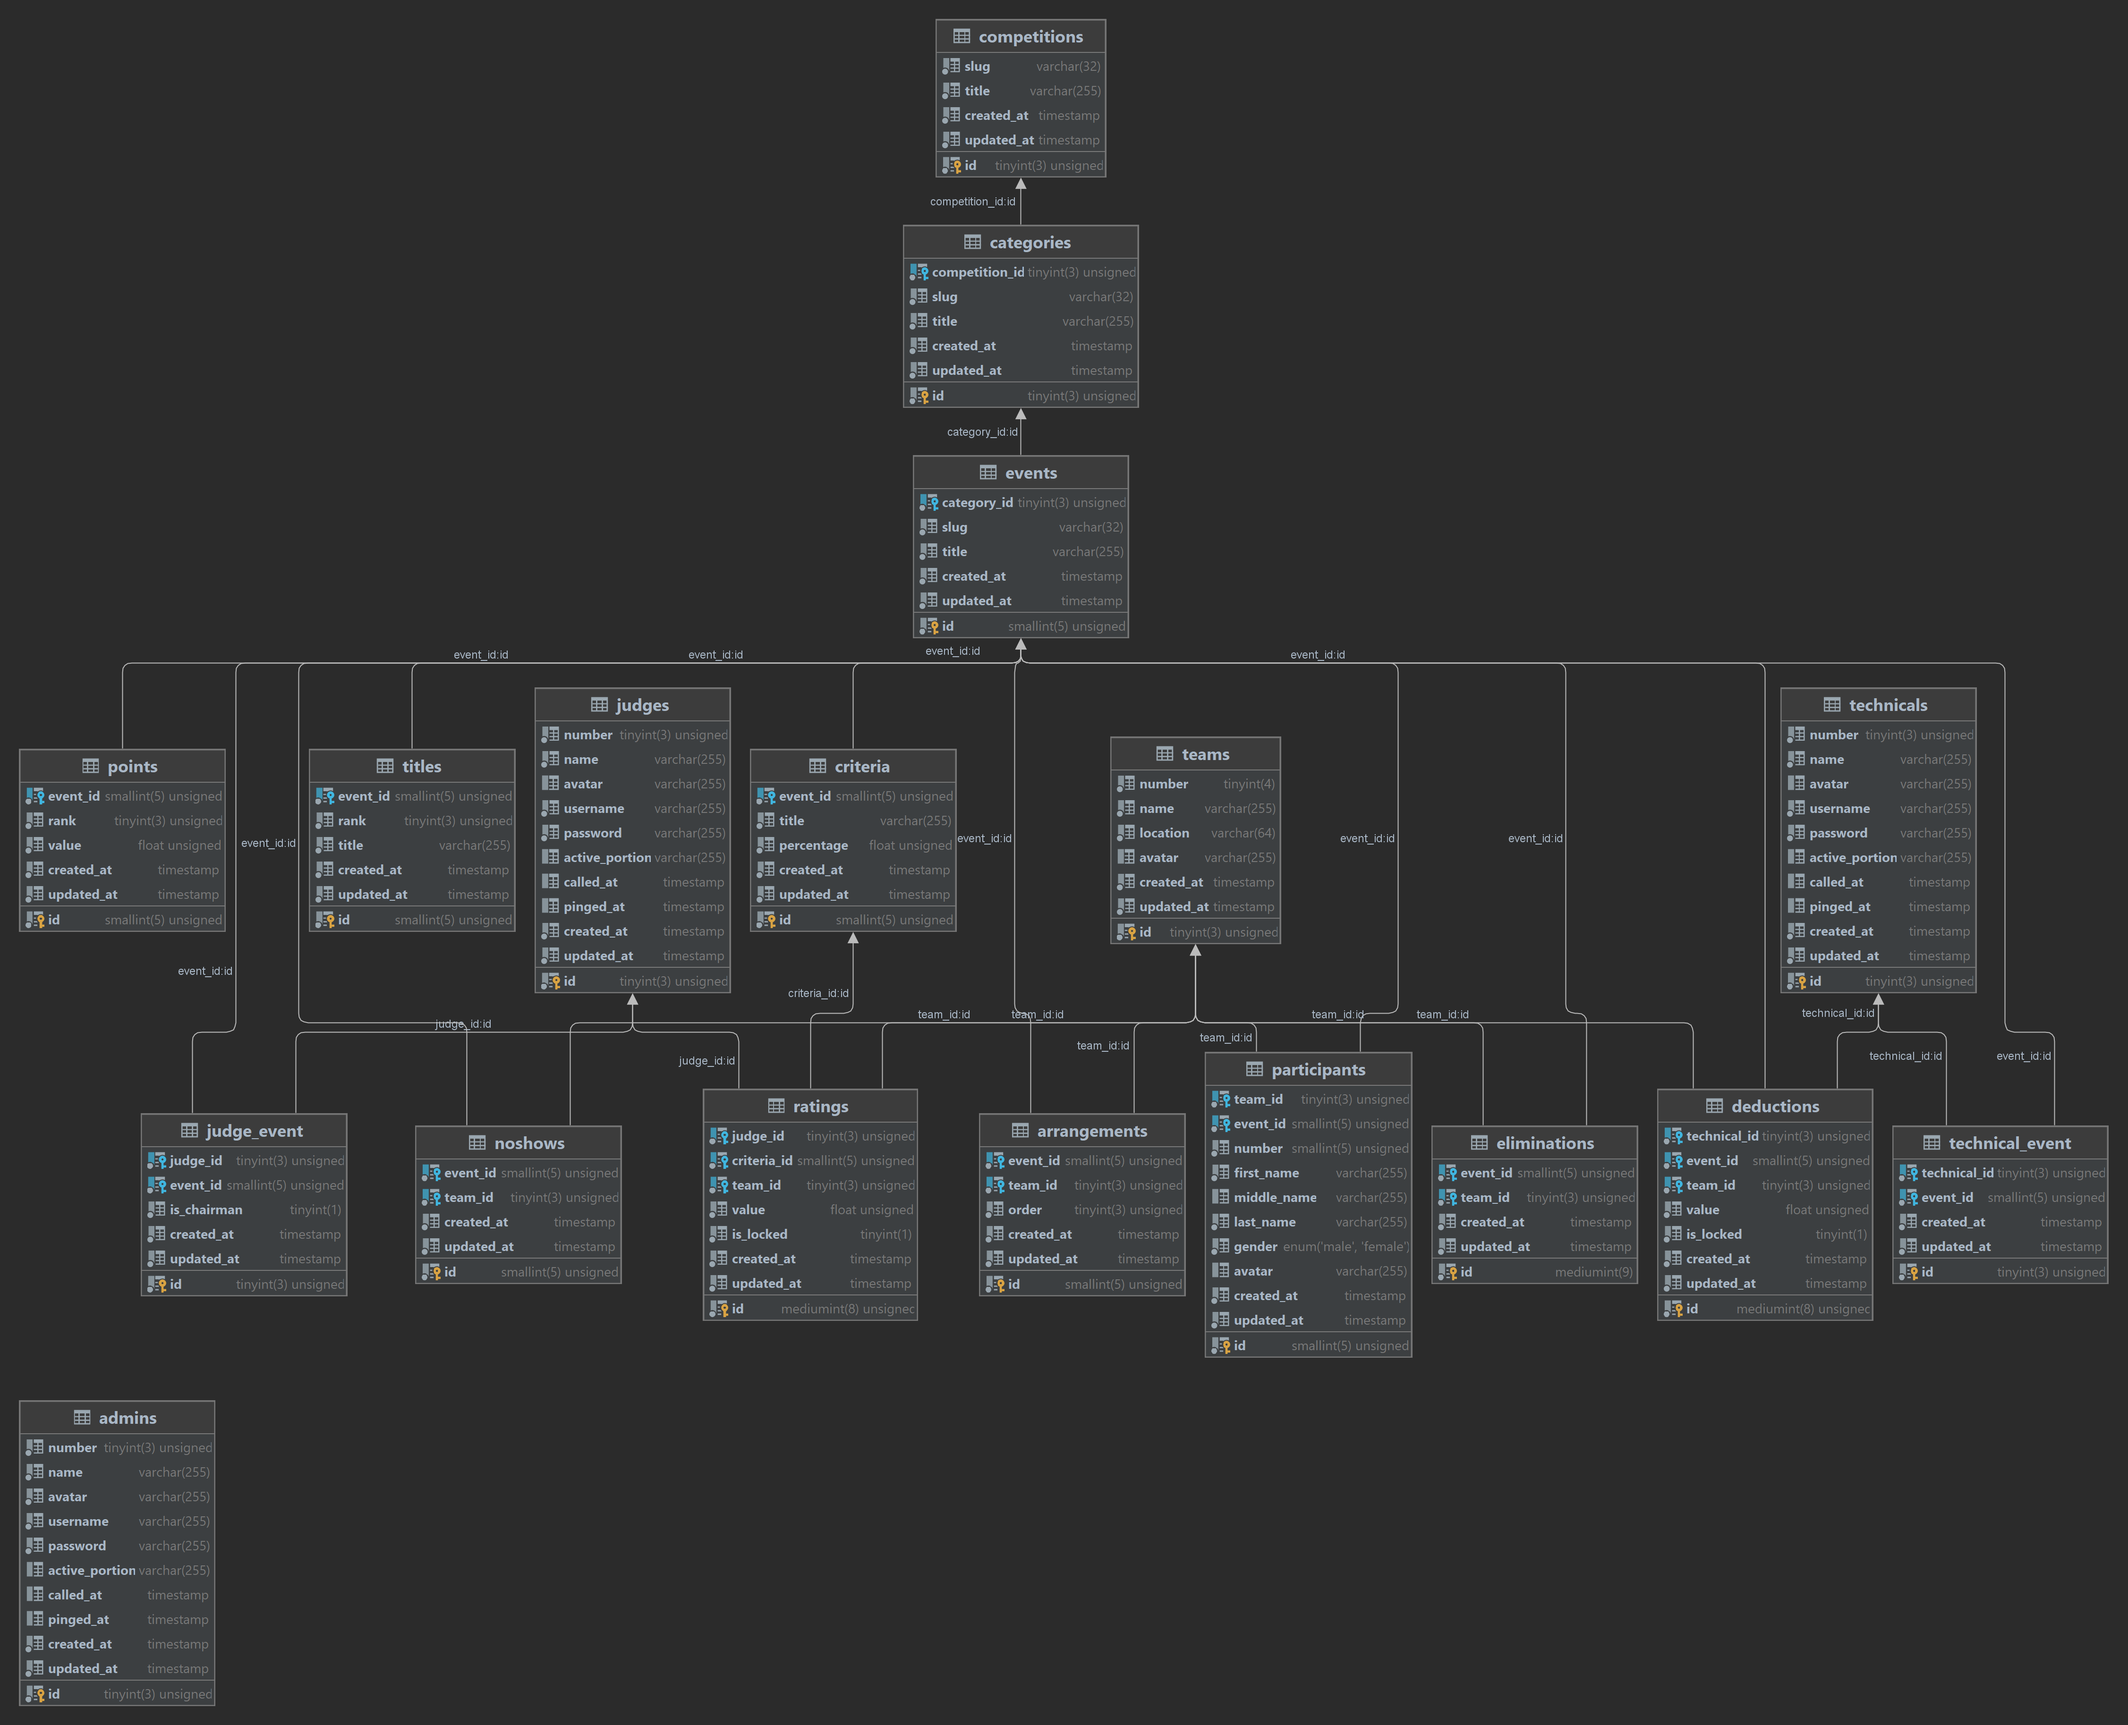
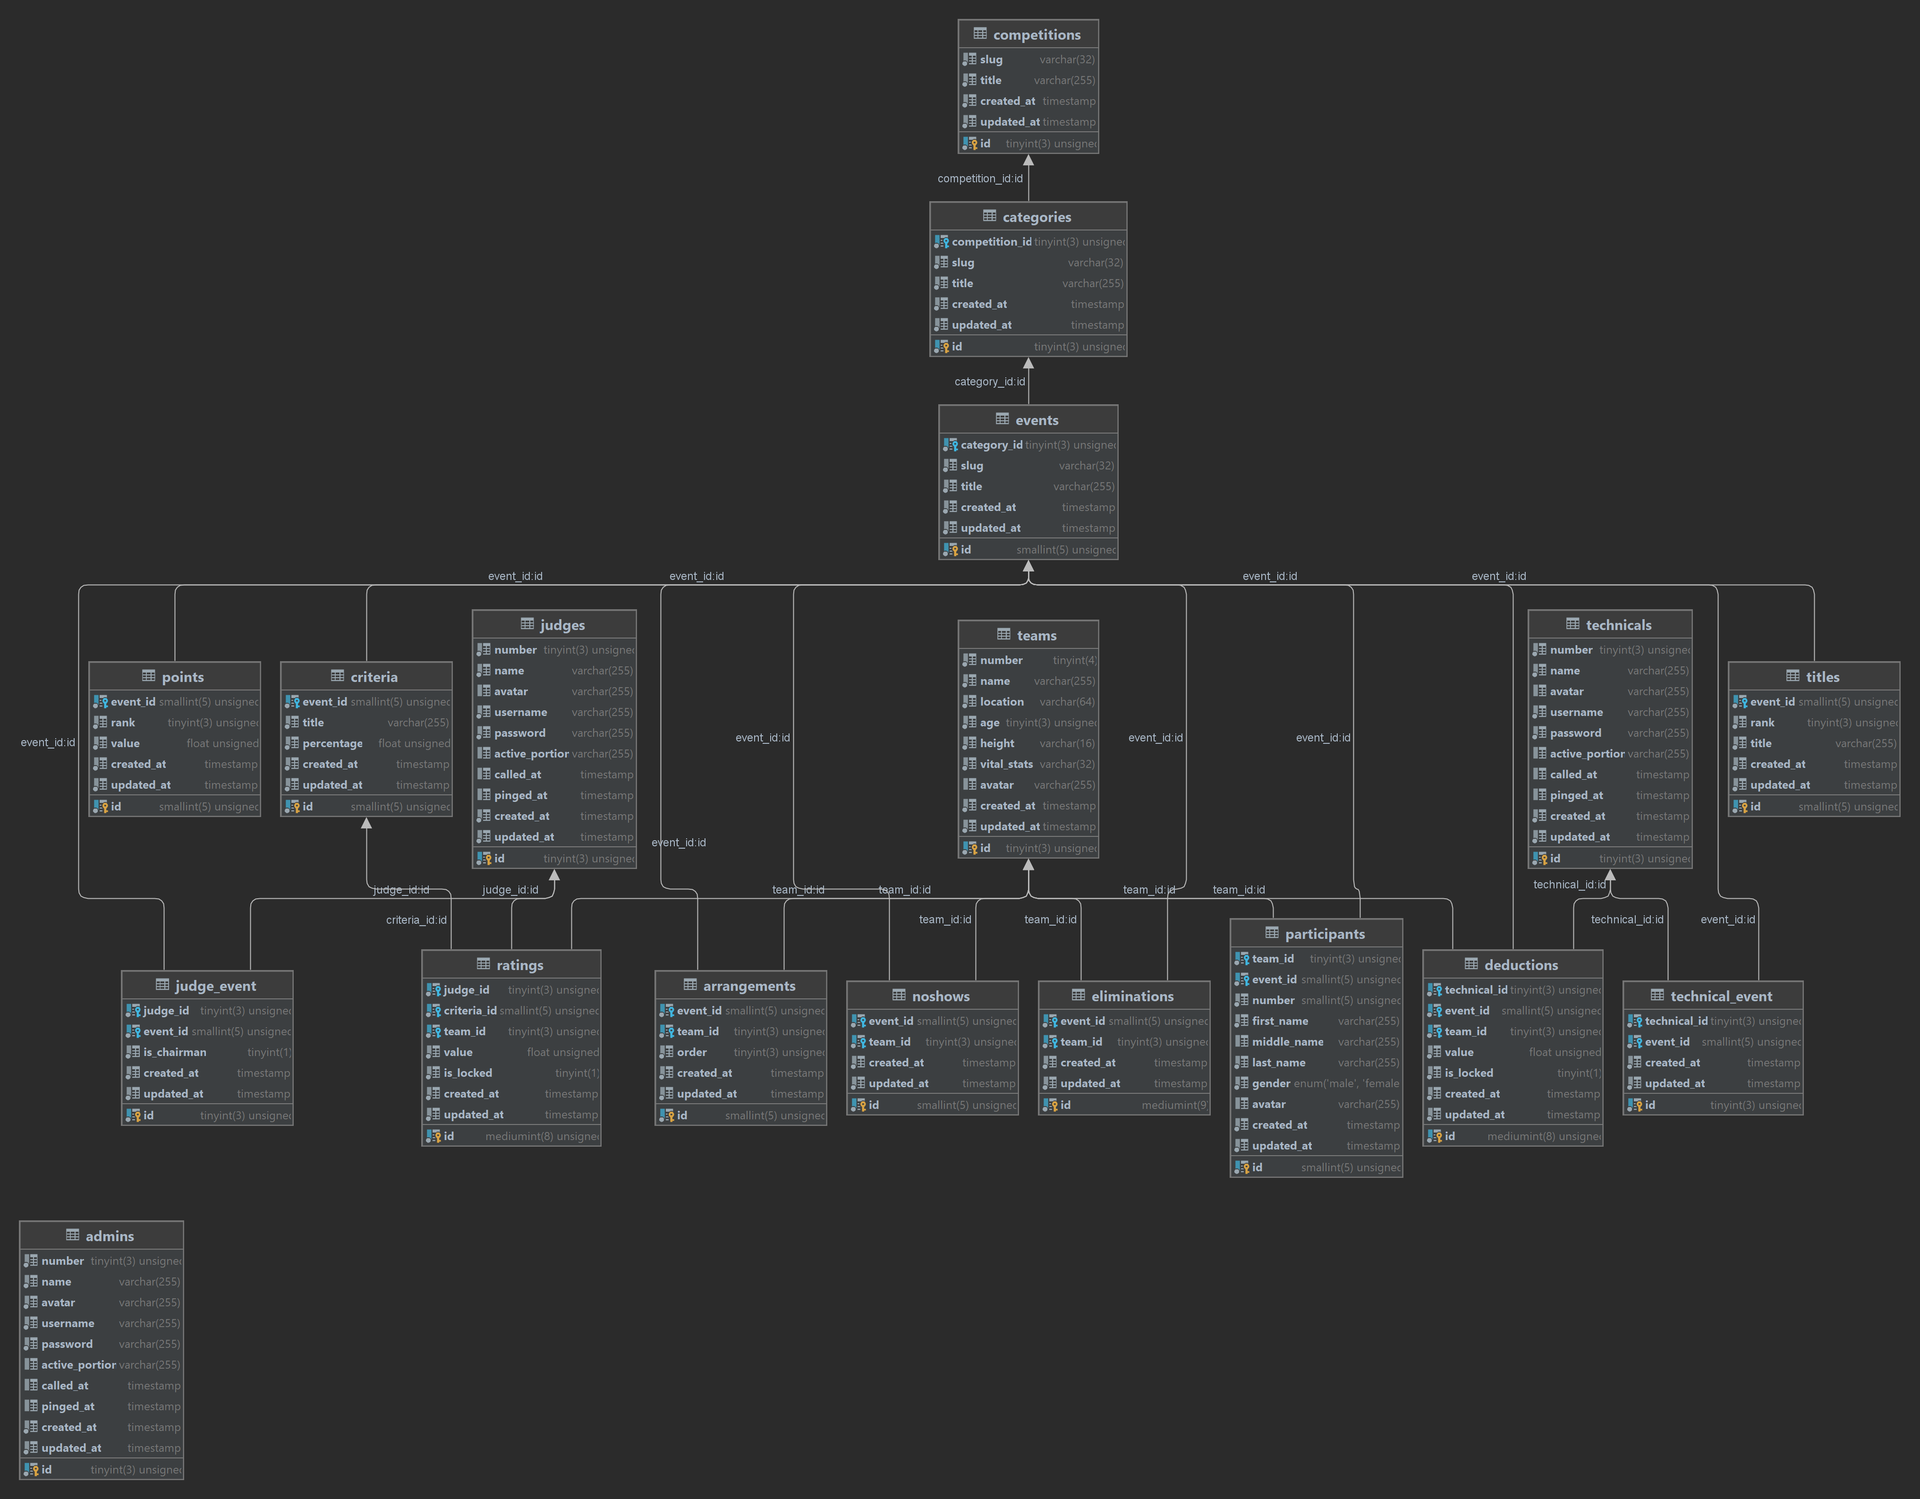
Add age, height, and vital_stats to Team (Candidate) model.

diff --git a/src/views/Admin.vue b/src/views/Admin.vue
@@ -152,8 +152,9 @@
                             </v-avatar>
                         </td>
                         <td :class="{ 'bg-yellow-lighten-3': allSubmitted && team.title !== '' }">
-                            <p class="ma-0 text-subtitle-2 text-uppercase font-weight-bold" style="line-height: 1.2">{{ team.name }}</p>
-                            <p class="mt-1 mb-0" style="line-height: 1"><small>{{ team.location }}</small></p>
+                            <p class="mt-0 me-0 mb-1 ms-0 text-subtitle-2 text-uppercase font-weight-bold" style="line-height: 1.2">{{ team.name }}</p>
+                            <p class="mb-0" v-if="team.location.trim() !== ''" style="line-height: 1; opacity: 0.8"><small><b>{{ team.location }}</b></small></p>
+                            <p class="mb-0" v-if="team.meta.trim() !== ''" style="line-height: 1; opacity: 0.85"><small>{{ team.meta }}</small></p>
                         </td>
                         <td
                             v-for="(technical, technicalKey, technicalIndex) in technicals"
@@ -335,8 +336,9 @@
                                             class="pa-3"
                                             style="border-bottom: 1px solid #ddd; border-right: 1px solid #ddd;"
                                         >
-                                            <p class="ma-0 text-h6 text-uppercase font-weight-bold" style="line-height: 1.2">{{ teams[winner[0]].name }}</p>
-                                            <p class="mt-1 text-body-1 mb-0" style="line-height: 1"><small>{{ teams[winner[0]].location }}</small></p>
+                                            <p class="mt-0 me-0 mb-1 ms-0 text-h6 text-uppercase font-weight-bold" style="line-height: 1.3">{{ teams[winner[0]].name }}</p>
+                                            <p class="mb-0" v-if="teams[winner[0]].location.trim() !== ''" style="line-height: 1.1; opacity: 0.8"><span><b>{{ teams[winner[0]].location }}</b></span></p>
+                                            <p class="mb-0" v-if="teams[winner[0]].meta.trim() !== ''" style="line-height: 1.1; opacity: 0.85"><span>{{ teams[winner[0]].meta }}</span></p>
                                         </td>
                                     </tr>
                                 </template>

diff --git a/src/views/Judge.vue b/src/views/Judge.vue
@@ -90,8 +90,9 @@
                         class="px-0 text-grey-darken-2"
                         :class="{ 'text-grey-darken-4': coordinates.y == teamIndex && !scoreSheetDisabled }"
                     >
-                        <p class="ma-0 text-subtitle-2 text-uppercase font-weight-bold" style="line-height: 1.2">{{ team.name }}</p>
-                        <p class="mt-1 mb-0" style="line-height: 1"><small>{{ team.location }}</small></p>
+                        <p class="mt-0 me-0 mb-1 ms-0 text-subtitle-2 text-uppercase font-weight-bold" style="line-height: 1.2">{{ team.name }}</p>
+                        <p class="mb-0" v-if="team.location.trim() !== ''" style="line-height: 1; opacity: 0.8"><small><b>{{ team.location }}</b></small></p>
+                        <p class="mb-0" v-if="team.meta.trim() !== ''" style="line-height: 1; opacity: 0.85"><small>{{ team.meta }}</small></p>
                     </td>
 					<td
 						v-for="(criterion, criterionIndex) in criteria"

diff --git a/src/views/Technical.vue b/src/views/Technical.vue
@@ -56,8 +56,9 @@
                         class="px-0 text-grey-darken-2"
                         :class="{ 'text-grey-darken-4': coordinates.y == teamIndex && !scoreSheetDisabled }"
                     >
-                        <p class="ma-0 text-subtitle-2 text-uppercase font-weight-bold" style="line-height: 1.2">{{ team.name }}</p>
-                        <p class="mt-1 mb-0" style="line-height: 1"><small>{{ team.location }}</small></p>
+                        <p class="mt-0 me-0 mb-1 ms-0 text-subtitle-2 text-uppercase font-weight-bold" style="line-height: 1.2">{{ team.name }}</p>
+                        <p class="mb-0" v-if="team.location.trim() !== ''" style="line-height: 1; opacity: 0.8"><small><b>{{ team.location }}</b></small></p>
+                        <p class="mb-0" v-if="team.meta.trim() !== ''" style="line-height: 1; opacity: 0.85"><small>{{ team.meta }}</small></p>
                     </td>
                     <td>
                         <v-text-field

diff --git a/app/models/Team.php b/app/models/Team.php
@@ -12,6 +12,10 @@ class Team extends App
     protected $number = 0;
     protected $name;
     protected $location;
+    protected $age = 0;
+    protected $height = '';
+    protected $vital_stats = '';
+    protected $meta = '';
     protected $avatar = 'candidate.png';
     protected $disabled = false;
 
@@ -33,11 +37,15 @@ class Team extends App
             $result = $stmt->get_result();
             if($result->num_rows > 0) {
                 $row = $result->fetch_assoc();
-                $this->id = $row['id'];
-                $this->number = $row['number'];
-                $this->name = $row['name'];
-                $this->location = $row['location'];
-                $this->avatar = $row['avatar'];
+                $this->id          = $row['id'];
+                $this->number      = $row['number'];
+                $this->name        = $row['name'];
+                $this->location    = $row['location'];
+                $this->age         = intval($row['age']);
+                $this->height      = $row['height'];
+                $this->vital_stats = $row['vital_stats'];
+                $this->avatar      = $row['avatar'];
+                $this->meta        = $this->parseMetaData();
             }
         }
     }
@@ -83,12 +91,16 @@ class Team extends App
     public function toArray()
     {
         return [
-            'id'       => $this->id,
-            'number'   => $this->number,
-            'name'     => $this->name,
-            'location' => $this->location,
-            'avatar'   => $this->avatar,
-            'disabled' => $this->disabled
+            'id'          => $this->id,
+            'number'      => $this->number,
+            'name'        => $this->name,
+            'location'    => $this->location,
+            'age'         => $this->age,
+            'height'      => $this->height,
+            'vital_stats' => $this->vital_stats,
+            'meta'        => $this->meta,
+            'avatar'      => $this->avatar,
+            'disabled'    => $this->disabled
         ];
     }
 
@@ -132,7 +144,7 @@ class Team extends App
         if(sizeof($eliminated_team_ids) > 0) {
             $sql .= "WHERE id NOT IN (" . implode(', ', $eliminated_team_ids) . ") ";
         }
-        $sql .= "ORDER BY id, number";
+        $sql .= "ORDER BY number, id";
         $stmt = $team->conn->prepare($sql);
         $stmt->execute();
         $result = $stmt->get_result();
@@ -241,8 +253,8 @@ class Team extends App
             App::returnError('HTTP/1.1 409', 'Insert Error: team [id = ' . $this->id . '] already exists.');
 
         // proceed with insert
-        $stmt = $this->conn->prepare("INSERT INTO $this->table(number, name, location, avatar) VALUES(?, ?, ?, ?)");
-        $stmt->bind_param("isss", $this->number, $this->name, $this->location, $this->avatar);
+        $stmt = $this->conn->prepare("INSERT INTO $this->table(number, name, location, age, height, vital_stats, avatar) VALUES(?, ?, ?, ?, ?, ?, ?)");
+        $stmt->bind_param("ississs", $this->number, $this->name, $this->location, $this->age, $this->height, $this->vital_stats, $this->avatar);
         $stmt->execute();
         $this->id = $this->conn->insert_id;
     }
@@ -260,8 +272,8 @@ class Team extends App
             App::returnError('HTTP/1.1 404', 'Update Error: team [id = ' . $this->id . '] does not exist.');
 
         // proceed with update
-        $stmt = $this->conn->prepare("UPDATE $this->table SET number = ?, name = ?, location = ?, avatar = ? WHERE id = ?");
-        $stmt->bind_param("isssi", $this->number, $this->name, $this->location, $this->avatar, $this->id);
+        $stmt = $this->conn->prepare("UPDATE $this->table SET number = ?, name = ?, location = ?, age = ?, height = ?, vital_stats = ?, avatar = ? WHERE id = ?");
+        $stmt->bind_param("ississsi", $this->number, $this->name, $this->location, $this->age, $this->height, $this->vital_stats, $this->avatar, $this->id);
         $stmt->execute();
     }
 
@@ -321,6 +333,42 @@ class Team extends App
 
 
     /***************************************************************************
+     * Set age
+     *
+     * @param int $age
+     * @return void
+     */
+    public function setAge($age)
+    {
+        $this->age = $age;
+    }
+
+
+    /***************************************************************************
+     * Set height
+     *
+     * @param string $height
+     * @return void
+     */
+    public function setHeight($height)
+    {
+        $this->height = $height;
+    }
+
+
+    /***************************************************************************
+     * Set vital stats
+     *
+     * @param string $vital_stats
+     * @return void
+     */
+    public function setVitalStats($vital_stats)
+    {
+        $this->vital_stats = $vital_stats;
+    }
+
+
+    /***************************************************************************
      * Set avatar
      *
      * @param string $avatar
@@ -373,6 +421,39 @@ class Team extends App
     public function getLocation()
     {
         return $this->location;
+    }
+
+
+    /***************************************************************************
+     * Get age
+     *
+     * @return int
+     */
+    public function getAge()
+    {
+        return $this->age;
+    }
+
+
+    /***************************************************************************
+     * Get height
+     *
+     * @return string
+     */
+    public function getHeight()
+    {
+        return $this->height;
+    }
+
+
+    /***************************************************************************
+     * Get vital stats
+     *
+     * @return string
+     */
+    public function getVitalStats()
+    {
+        return $this->vital_stats;
     }
 
 
@@ -549,5 +630,31 @@ class Team extends App
     public function hasBeenEliminatedFromEvent($event)
     {
         return $event->hasTeamBeenEliminated($this);
+    }
+
+
+    /***************************************************************************
+     * Parse meta data.
+     *
+     * @return string
+     */
+    public function parseMetaData()
+    {
+        $meta = '';
+        $has_age         = $this->age > 0;
+        $has_height      = trim($this->height) != '';
+        $has_vital_stats = trim($this->vital_stats) != '';
+
+        if($has_age || $has_height || $has_vital_stats) {
+            if($has_age)
+                $meta .= $this->age . ' yr' . ($this->age > 1 ? 's' : '') . '. old';
+            if($has_age && ($has_height || $has_vital_stats))
+                $meta .= ' |';
+            if($has_height)
+                $meta .= ' ' . $this->height;
+            if($has_vital_stats)
+                $meta .= ' (' . $this->vital_stats . ')';
+        }
+        return $meta;
     }
 }
